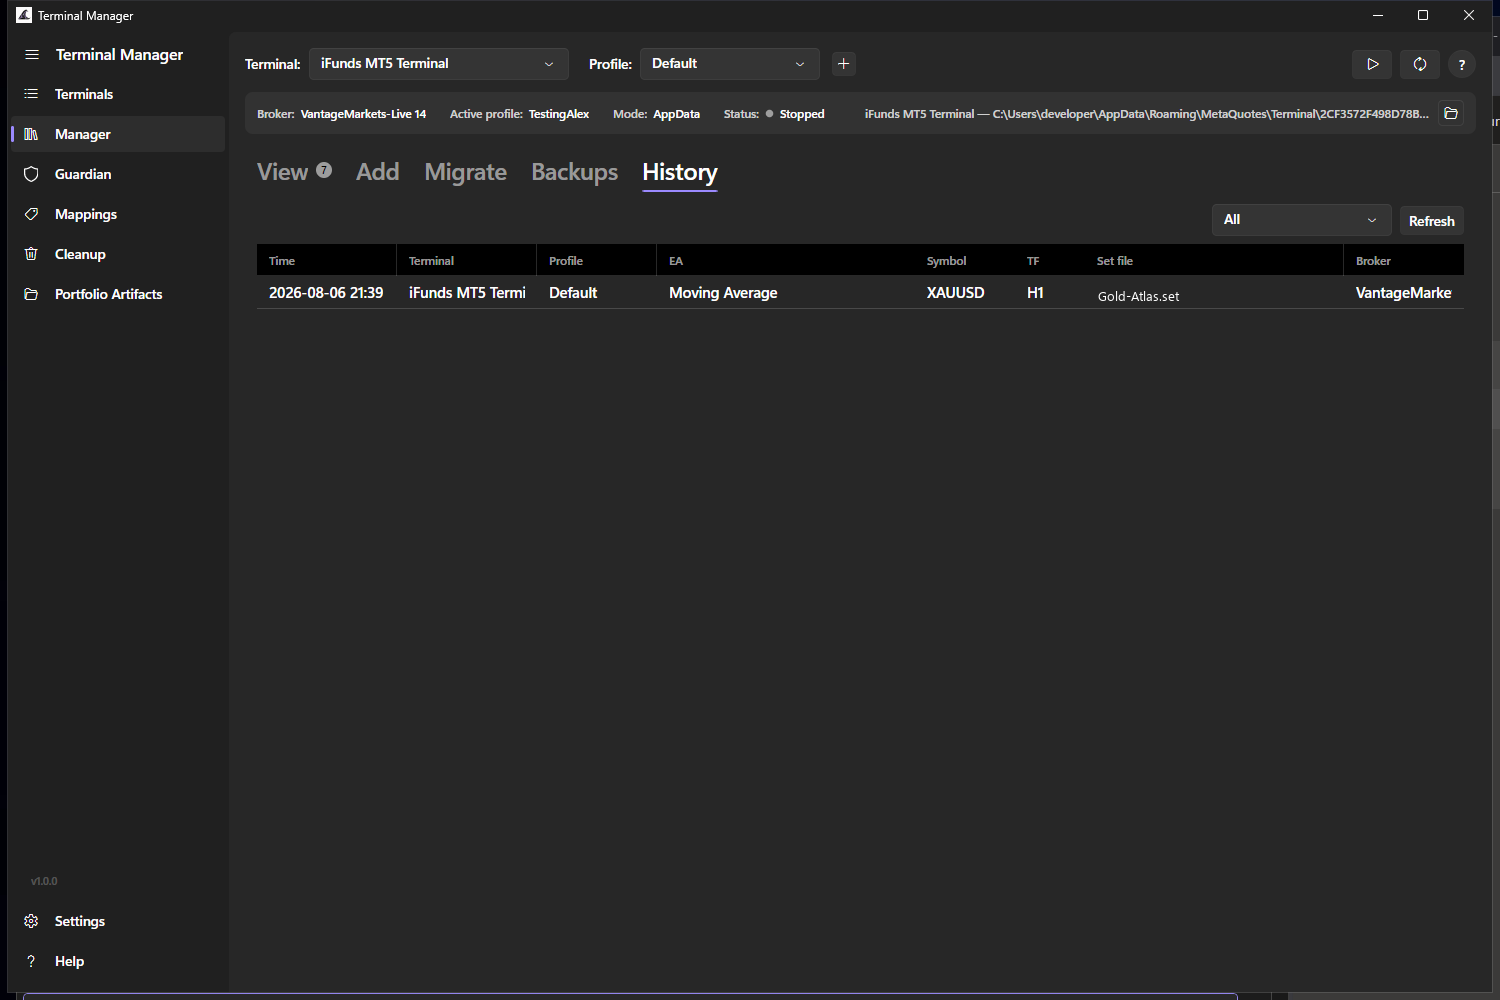
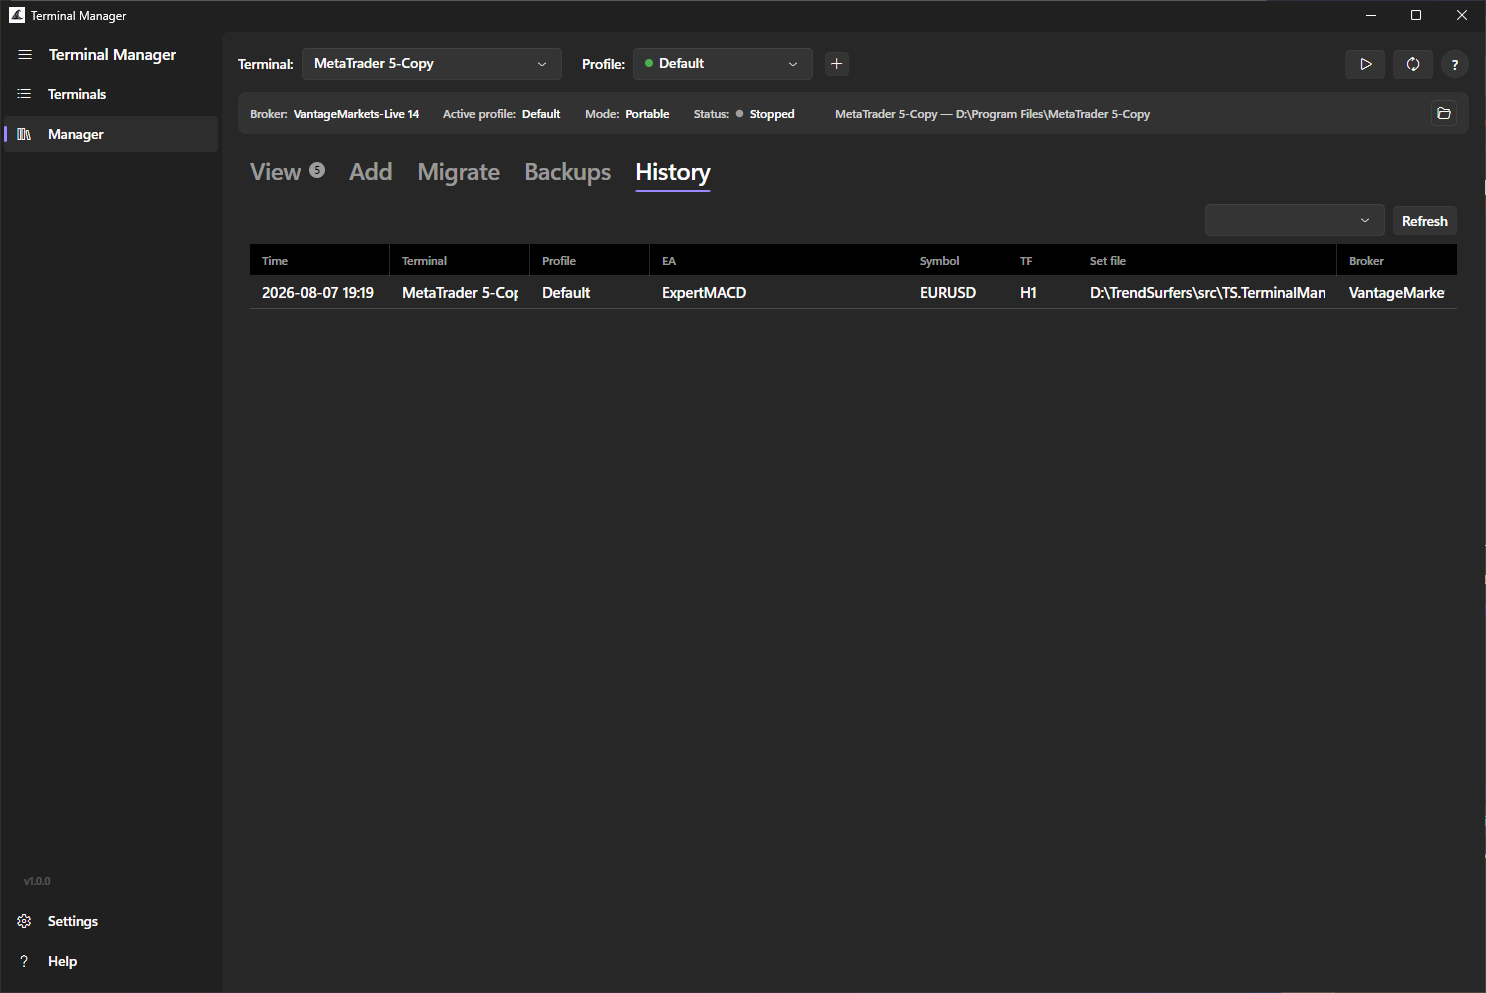
docs: refresh screenshots for the free release (restricted sidebar, neutral terminal) + add Settings shot

diff --git a/README.md b/README.md
@@ -36,6 +36,11 @@ Terminal Manager is **completely free** to use.
   <br/><em>Deployment History — a full, traceable record of what was deployed, where, and when</em>
 </p>
 
+<p align="center">
+  <img src="pictures/settings.png" alt="Settings — scan depth, theme, startup, and preview updates" width="720"/>
+  <br/><em>Settings — scan depth, theme, start-with-Windows, and the preview-update channel</em>
+</p>
+
 ---
 
 ## Core Features
